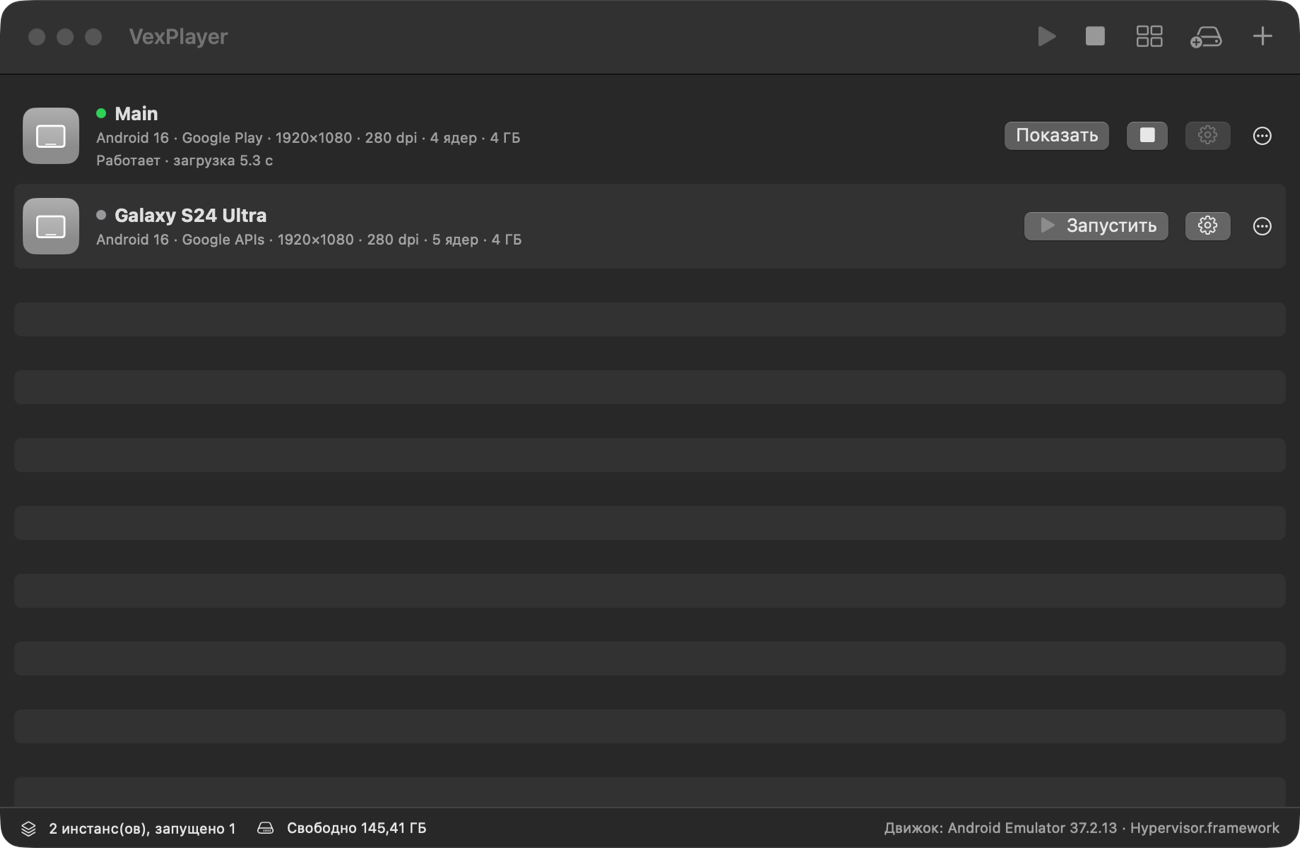
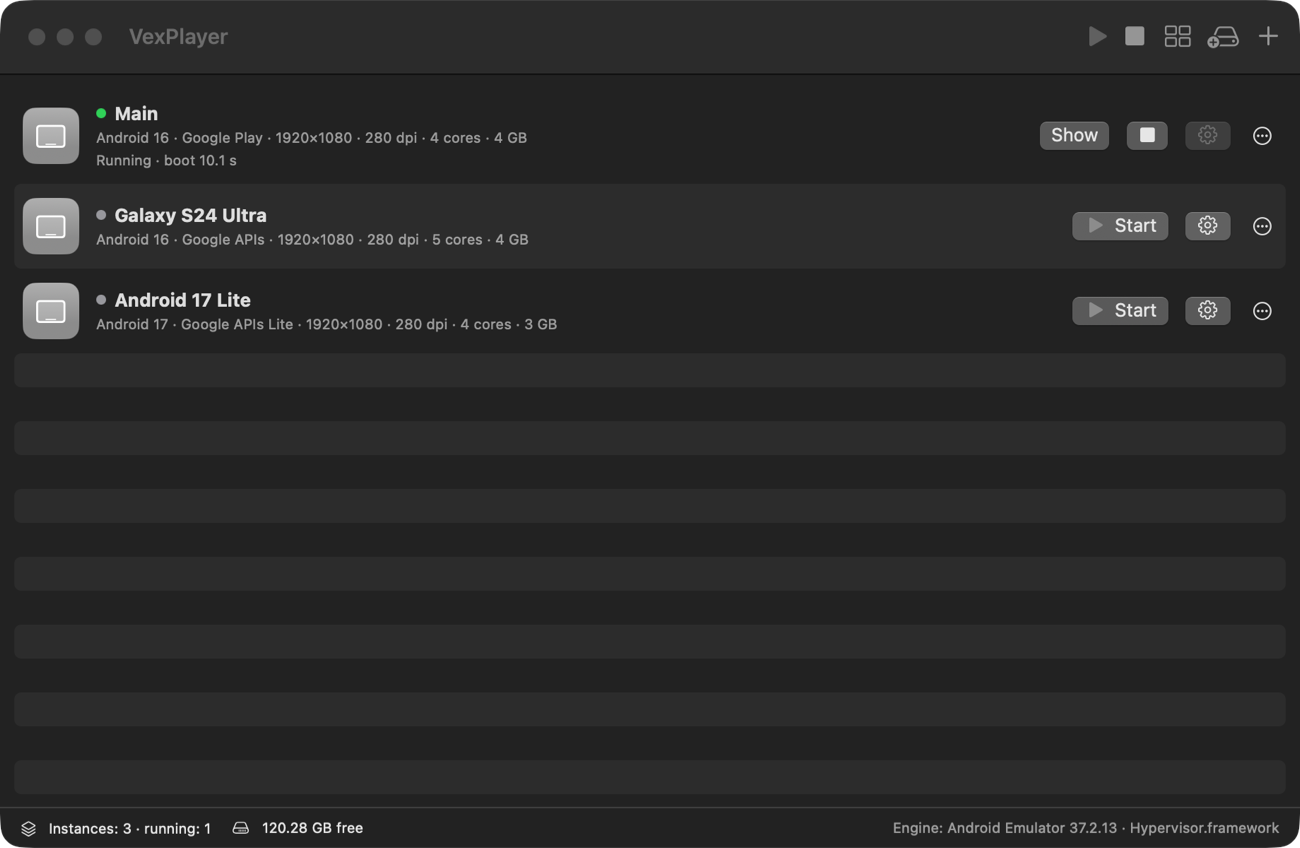
Prepare the first download: release instructions and English screenshots
- README: a download link under the hero image, and Getting started now
  starts with the prebuilt app (including how to get past Gatekeeper for
  an app that isn't notarized) before building from source.
- Key mapping and instance manager screenshots retaken with the English
  interface on a demo set of instances.
- VEXPLAYER_HOME points the app at a separate set of instances (demos,
  screenshots, experiments); documented under Development.
- Release builds map the checkout path out of compiled-in file names, and
  the source-tree fallback for VexIME.apk exists in debug builds only, so
  the shipped binary carries no paths from the build machine.

diff --git a/Sources/VexPlayer/Engine/ImeBridge.swift b/Sources/VexPlayer/Engine/ImeBridge.swift
@@ -33,11 +33,15 @@ final class ImeBridge: @unchecked Sendable {
 
     static var apkURL: URL? {
         if let url = Bundle.main.url(forResource: "VexIME", withExtension: "apk") { return url }
+        #if DEBUG
         // Development builds and tests run outside the .app: use the copy in the source tree.
         let source = URL(fileURLWithPath: #filePath)
             .deletingLastPathComponent().deletingLastPathComponent().deletingLastPathComponent().deletingLastPathComponent()
             .appendingPathComponent("Resources/VexIME.apk")
         return source.fileExists ? source : nil
+        #else
+        return nil
+        #endif
     }
 
     func start(port: Int) {

diff --git a/Sources/VexPlayer/Core/AppPaths.swift b/Sources/VexPlayer/Core/AppPaths.swift
@@ -4,6 +4,10 @@ import Foundation
 /// ~/Library/Application Support/VexPlayer so it never collides with Android Studio.
 enum AppPaths {
     static let root: URL = {
+        // VEXPLAYER_HOME runs a separate set of instances (demos, screenshots, experiments) next to the real ones.
+        if let custom = ProcessInfo.processInfo.environment["VEXPLAYER_HOME"], !custom.isEmpty {
+            return URL(fileURLWithPath: (custom as NSString).expandingTildeInPath, isDirectory: true)
+        }
         let base = FileManager.default.urls(for: .applicationSupportDirectory, in: .userDomainMask)[0]
         return base.appendingPathComponent("VexPlayer", isDirectory: true)
     }()

diff --git a/README.md b/README.md
@@ -15,6 +15,8 @@ Modern Android (11–17), Metal graphics, key mapping for games, multi-instance,
 
 <img src="docs/media/hero.png" alt="VexPlayer running Android 16 on a Mac" width="860">
 
+**[Download for Apple Silicon](https://github.com/xinitkey/vexplayer/releases/latest)** · macOS 15 or later · free and open source
+
 </div>
 
 ---
@@ -67,7 +69,7 @@ Run several Android devices side by side, each with its own CPU, RAM, resolution
 Instances don't share anything at run time. The stock emulator routes Bluetooth, UWB and Wi-Fi of every running instance through one shared daemon (netsimd), and when its connection drops, the emulator's Bluetooth transport aborts while reconnecting and takes a running game down with it. VexPlayer switches Android's Bluetooth off on an instance's first start (nothing in an emulator uses it: gamepads connect to the Mac) and from then on starts it without Bluetooth and UWB emulation, with Wi-Fi on the emulator's own network stack.
 
 <p align="center">
-<img src="docs/media/instances.png" alt="Instance manager with two Android instances" width="760">
+<img src="docs/media/instances.png" alt="Instance manager with three Android instances" width="760">
 </p>
 
 ### 📦 One-click setup
@@ -138,7 +140,15 @@ Where the speed comes from:
 
 ## Getting started
 
-**Requirements:** a Mac with Apple Silicon, macOS 15 or later, Xcode 16 or later (Swift 6), and about 3 GB of free disk space for the first Android image.
+**Requirements:** a Mac with Apple Silicon, macOS 15 or later, and about 3 GB of free disk space for the first Android image.
+
+**Download:** get `VexPlayer-<version>.zip` from the [latest release](https://github.com/xinitkey/vexplayer/releases/latest), unzip it and move `VexPlayer.app` to Applications. The app isn't notarized by Apple yet, so macOS blocks the first launch: open **System Settings → Privacy & Security**, scroll down and click **Open Anyway** next to VexPlayer. Or clear the quarantine flag in Terminal:
+
+```bash
+xattr -dr com.apple.quarantine /Applications/VexPlayer.app
+```
+
+**Or build it yourself** (needs Xcode 16 or later):
 
 ```bash
 git clone https://github.com/xinitkey/vexplayer.git
@@ -301,6 +311,13 @@ swift test                           # unit tests: geometry, key mapping, key co
 VEX_E2E=1 swift test --filter E2E    # end-to-end test on a real emulator (downloads ~2.3 GB the first time)
 scripts/build-app.sh                 # release .app bundle in build/
 scripts/gen-proto.sh                 # regenerate the gRPC client from Protos/
+```
+
+`VEXPLAYER_HOME=/some/folder` runs the app on a separate set of instances (settings stay shared). Symlink `sdk` into that folder to reuse the downloaded emulator and images; that is how the screenshots in this README are made:
+
+```bash
+mkdir -p ~/vex-demo && ln -s ~/Library/Application\ Support/VexPlayer/sdk ~/vex-demo/sdk
+open -n --env VEXPLAYER_HOME=~/vex-demo build/VexPlayer.app --args -AppleLanguages "(en)"
 ```
 
 To re-render the app icon after editing `scripts/make-icon.swift`:
